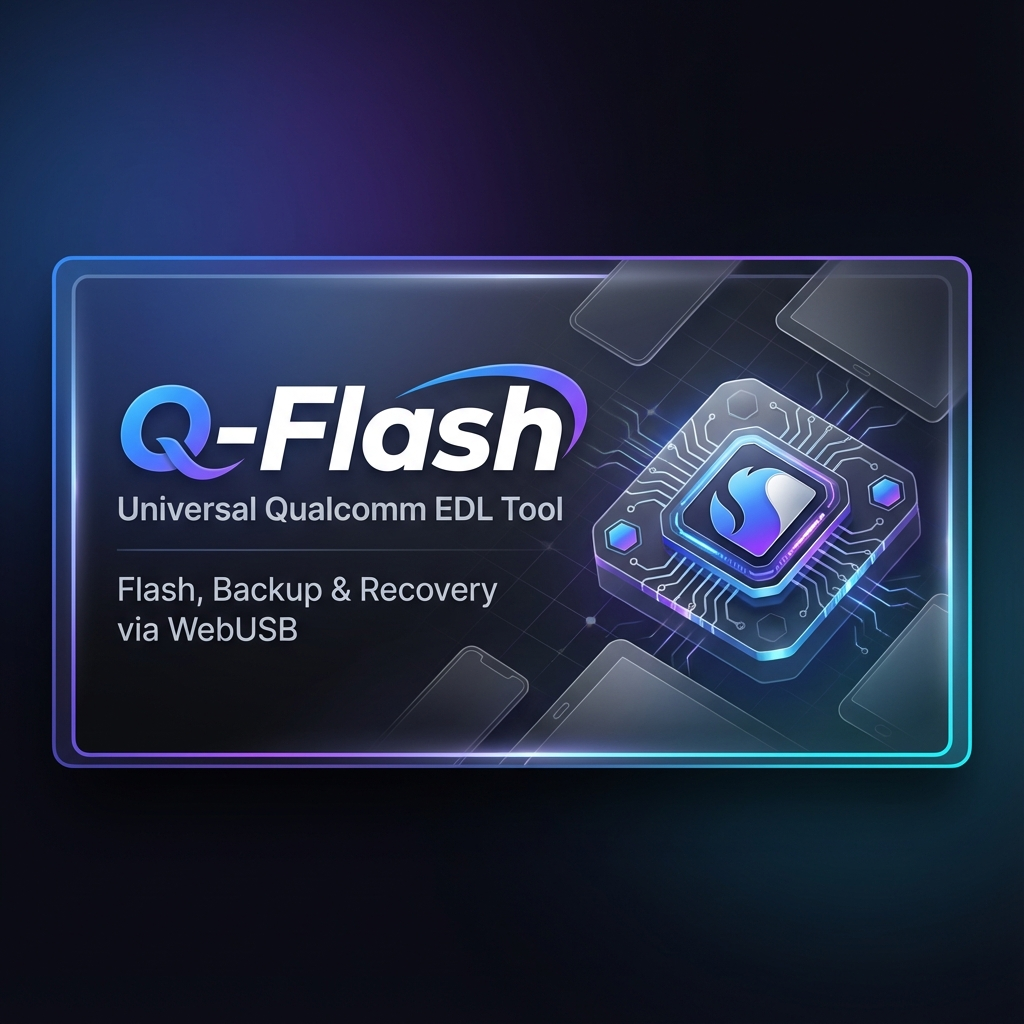
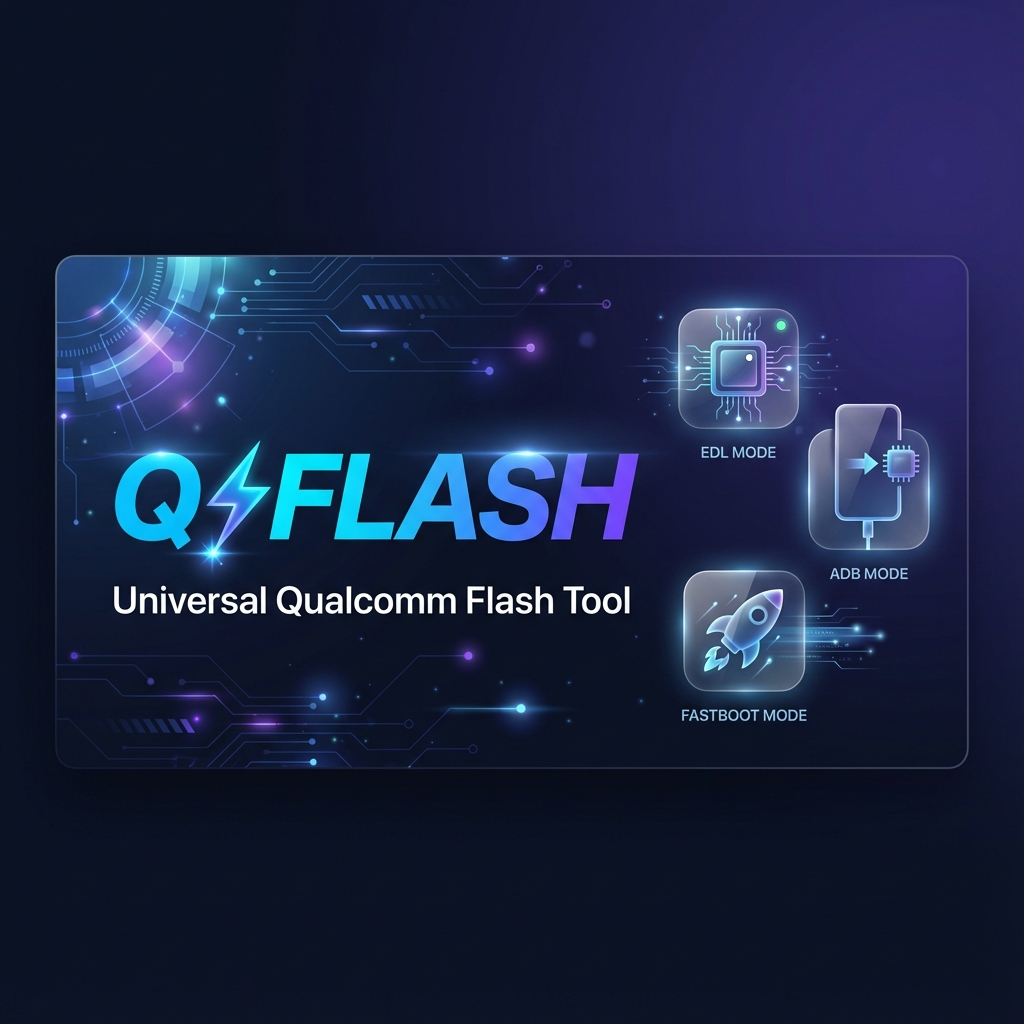
feat: Improve OG/Meta tags for better social media previews - Add structured data JSON-LD, Discord/Telegram tags, new OG image

diff --git a/index.html b/index.html
@@ -12,35 +12,75 @@
   <meta name="description"
     content="Professional WebUSB-based EDL flash tool for Qualcomm devices. Flash ROMs, backup partitions, and unbrick your device directly from browser. Supports ADB, Fastboot & EDL modes." />
   <meta name="keywords"
-    content="Qualcomm EDL, Flash Tool, WebUSB, Oppo, Xiaomi, Samsung, Unbrick, Partition Manager, ADB, Fastboot" />
+    content="Qualcomm EDL, Flash Tool, WebUSB, Oppo, Xiaomi, Samsung, Unbrick, Partition Manager, ADB, Fastboot, ROM Flash, Emergency Download Mode" />
   <meta name="author" content="Xuan Nguyen" />
   <meta name="theme-color" content="#0d1117" />
+  <meta name="application-name" content="Q-Flash" />
 
   <!-- Open Graph / Facebook -->
   <meta property="og:type" content="website" />
   <meta property="og:url" content="https://xuannguyen.site/" />
   <meta property="og:title" content="Q-Flash - Universal Qualcomm EDL Flash Tool" />
   <meta property="og:description"
-    content="Professional WebUSB-based EDL flash tool for Qualcomm devices. Flash ROMs, backup partitions, and unbrick your device directly from browser." />
+    content="🚀 Flash ROMs, backup partitions & unbrick Qualcomm devices directly from your browser. Supports EDL, ADB & Fastboot modes. Free & Open Source!" />
   <meta property="og:image" content="https://xuannguyen.site/og-image.png" />
+  <meta property="og:image:type" content="image/png" />
   <meta property="og:image:width" content="1200" />
   <meta property="og:image:height" content="630" />
-  <meta property="og:image:alt" content="Q-Flash Universal Qualcomm Tool Preview" />
+  <meta property="og:image:alt" content="Q-Flash - Universal Qualcomm Flash Tool with EDL, ADB & Fastboot support" />
   <meta property="og:site_name" content="Q-Flash Tool" />
   <meta property="og:locale" content="en_US" />
+  <meta property="og:locale:alternate" content="vi_VN" />
 
   <!-- Twitter Card -->
   <meta name="twitter:card" content="summary_large_image" />
+  <meta name="twitter:site" content="@xuannguyen" />
+  <meta name="twitter:creator" content="@xuannguyen" />
   <meta name="twitter:url" content="https://xuannguyen.site/" />
   <meta name="twitter:title" content="Q-Flash - Universal Qualcomm EDL Flash Tool" />
   <meta name="twitter:description"
-    content="Professional WebUSB-based EDL flash tool. Flash ROMs, backup partitions, and unbrick your device directly from browser." />
+    content="🚀 Flash ROMs, backup partitions & unbrick Qualcomm devices directly from your browser. Supports EDL, ADB & Fastboot modes!" />
   <meta name="twitter:image" content="https://xuannguyen.site/og-image.png" />
-  <meta name="twitter:creator" content="@xuannguyen" />
+  <meta name="twitter:image:alt" content="Q-Flash Universal Qualcomm Flash Tool" />
+
+  <!-- Discord / Telegram / Slack -->
+  <meta property="discord:invite" content="qflash" />
+  <meta name="telegram:channel" content="@qflash" />
 
   <!-- Additional SEO -->
   <link rel="canonical" href="https://xuannguyen.site/" />
-  <meta name="robots" content="index, follow" />
+  <meta name="robots" content="index, follow, max-image-preview:large, max-snippet:-1, max-video-preview:-1" />
+  <meta name="googlebot" content="index, follow" />
+
+  <!-- Structured Data / JSON-LD -->
+  <script type="application/ld+json">
+  {
+    "@context": "https://schema.org",
+    "@type": "WebApplication",
+    "name": "Q-Flash",
+    "description": "Professional WebUSB-based EDL flash tool for Qualcomm devices. Flash ROMs, backup partitions, and unbrick your device directly from browser.",
+    "url": "https://xuannguyen.site/",
+    "applicationCategory": "UtilitiesApplication",
+    "operatingSystem": "Windows, macOS, Linux, ChromeOS",
+    "offers": {
+      "@type": "Offer",
+      "price": "0",
+      "priceCurrency": "USD"
+    },
+    "author": {
+      "@type": "Person",
+      "name": "Xuan Nguyen"
+    },
+    "featureList": [
+      "EDL Flash Mode",
+      "ADB Mode", 
+      "Fastboot Mode",
+      "Partition Backup",
+      "ROM Flashing",
+      "Device Unbrick"
+    ]
+  }
+  </script>
 
   <!-- Fonts -->
   <link rel="preconnect" href="https://fonts.googleapis.com">
